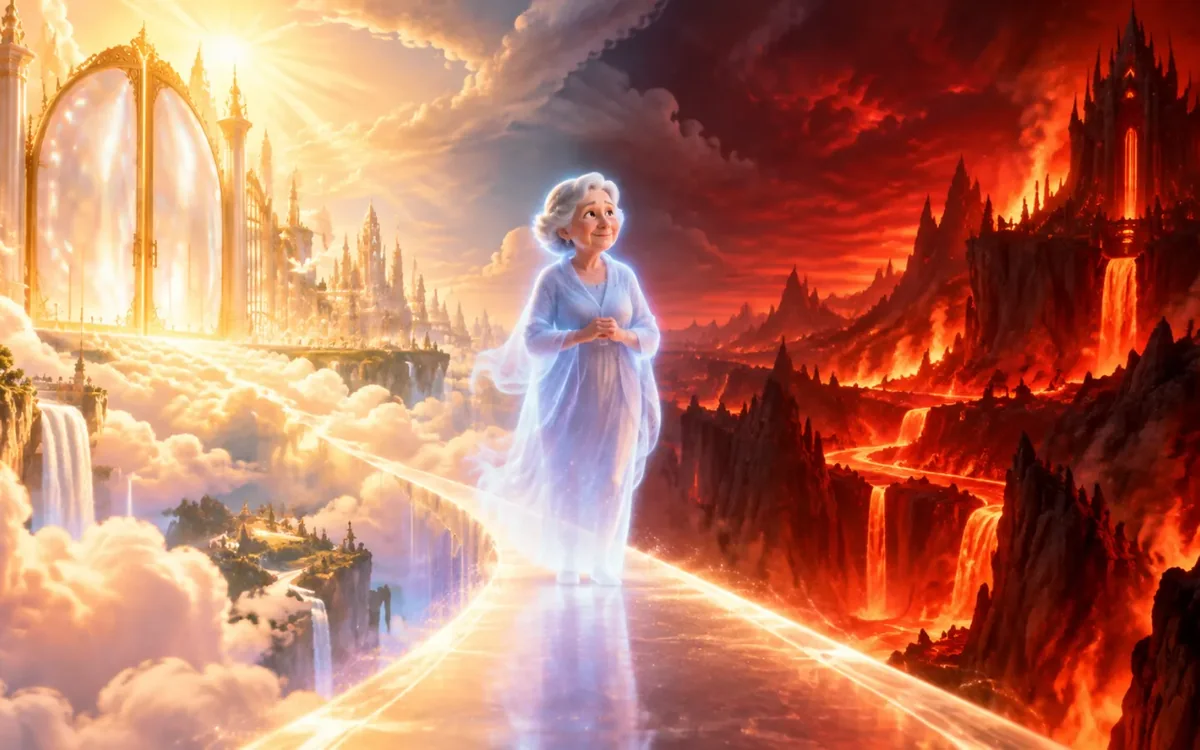
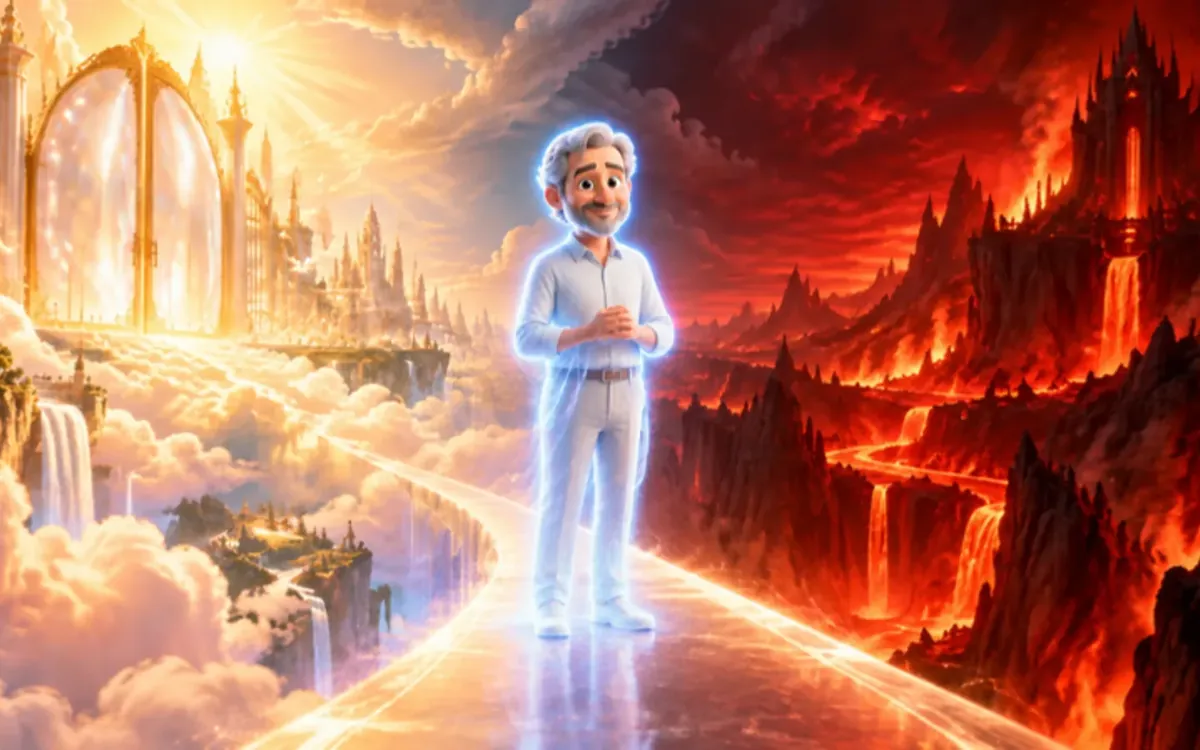
Portadas 3D ilustradas en el estilo de los muñequitos de gramática
Más allá ahora con un hombre como alma; Vuelo, Consorcio, Noche, Hospital,
Madrid, Casino, Reino y Feria dejan de ser capturas del juego.
render.mjs mundos genera public/<slug>/cover.webp desde scripts/covers/art.

Claude-Session: https://claude.ai/code/session_01JUjWx9xUr3z2xCLQdJXJhN

diff --git a/app/lesson-catalog.ts b/app/lesson-catalog.ts
@@ -148,7 +148,7 @@ const lessonSources:LessonSource[] = [
   {id:226,news:{addedAt:"2026-10-04",featured:true},level:"A1",levels:["A0","A1","A2","B1","B2","C1","C2"],displayLevel:"A0–C2",category:"Conversación",conversationMode:"play",collection:"Modo Play",title:"El bosque de los hongos gigantes",subtitle:"Salta, elige y habla: doce zonas de un bosque de plataformas con 432 preguntas para explorar tu mundo.",duration:"45–60 min",tag:"MODO PLAY · 3D · 12 ZONAS · A0–C2",special:true,path:"/bosque-de-los-hongos-gigantes",image:"/bosque-hongos/cover.webp",searchAliases:["bosque","hongos","hongo","setas","platformer","plataformas","saltar","videojuego","conversación","preguntas","opiniones","suposiciones","vida real","multiple choice","elecciones","hablar","modo play","a1","a2","b1","b2","c1","c2"],goals:["Expresar preferencias, experiencias y opiniones con el apoyo de tu nivel","Justificar elecciones y comparar perspectivas sin respuestas correctas","Revisar tus ideas cuando cambia una condición y conectar respuestas con tu vida"],warmup:"¿Qué lugar te gusta para conversar? Explica por qué.",explanation:"Un bosque de plataformas en tercera persona con doce zonas temáticas y seis bancos de 72 preguntas. Cada aterrizaje abre una conversación. Incluye vocabulario español-inglés de A1 a B2, repreguntas, mapa sin movimiento y una conversación final sobre la copa del bosque.",practice:[],speaking:["Elige y explica una preferencia personal","Compara dos posibilidades y revisa una condición","Conecta varias respuestas con tu propia vida"],homework:""},
   {id:225,level:"A1",levels:["A1","A2","B1","B2","C1","C2"],displayLevel:"A1–C2",category:"Fonética",title:"La entonación cambia todo",subtitle:"Las mismas palabras, otra intención: escucha, compara y elige cómo cae tu voz.",duration:"45–55 min",tag:"ENTONACIÓN · INTENCIÓN · VOZ · A1–C2",special:true,path:"/la-entonacion-cambia-todo",image:"/la-entonacion-cambia-todo/studio.webp",searchAliases:["fonética","pronunciación","entonación","intención","tono","cómo suena","pregunta","sorpresa","duda","cortesía","ironía","énfasis","emphasis","intonation","speaking","a1","a2","b1","b2","c1","c2"],goals:["Reconocer intenciones posibles a partir de la voz y el contexto","Comparar entregas del mismo texto","Cambiar el efecto interpersonal mediante énfasis y entonación"],warmup:"Di la misma frase con dos intenciones.",explanation:"Un estudio real de ensayo con seis recorridos completos: de preguntas y reacciones simples a ambigüedad, postura y efecto retórico. Audio antes del texto, comparación de tomas y producción en vivo con el profe.",practice:[],speaking:["Entrega una frase de dos maneras","Explica qué respuesta buscas provocar","Prueba otra entrega después de una devolución"],homework:"Trae una frase de tu vida para ensayarla con dos intenciones en la próxima clase."},
   {id:224,news:{addedAt:"2026-10-01",featured:true},level:"A1",levels:["A1","A2","B1","B2","C1","C2"],displayLevel:"A1–C2",category:"Fonética",title:"Hablar sin cortar",subtitle:"Las palabras no viajan solas: escucha conexiones, organiza ideas y lleva ese ritmo a tu propia voz.",duration:"45–55 min",tag:"CONEXIÓN · RITMO · HABLA REAL · A1–C2",special:true,path:"/hablar-sin-cortar",image:"/hablar-sin-cortar/studio.webp",searchAliases:["fonética","pronunciación","ritmo","hablar","fluidez","connected speech","linking","encadenamiento","unir palabras","natural speech","listening","a1","a2","b1","b2","c1","c2"],goals:["Reconocer palabras y grupos dentro del habla conectada","Controlar conexiones, pausas y foco sin perder inteligibilidad","Transferir lo escuchado a una intervención oral propia"],warmup:"Di una frase de tu vida. ¿Dónde haces pausas?",explanation:"Un estudio de voz con seis recorridos completos: del enlace de palabras conocidas a las decisiones de foco y agrupación. Escuchas, reconstrucción, conexiones, comparación de tomas y producción oral con devolución del profe.",practice:[],speaking:["Repite un grupo y cambia un dato","Explica dónde elegiste una pausa","Produce una intervención propia y reformúlala"],homework:"Elige una frase propia y ensaya dos agrupaciones para comentarlas en la próxima clase."},
-  {id:223,news:{addedAt:"2026-09-30",featured:true},level:"B1",levels:["A0","A1","A2","B1","B2","C1","C2"],displayLevel:"A0–C2",category:"Conversación",conversationMode:"play",collection:"Modo Play",title:"Noche abierta",subtitle:"Un videojuego en 3D: un sábado a la noche en un barrio, diez lugares y un juego de conversación distinto en cada uno. Elige tu nivel adentro, de A0 a C2.",duration:"≈ 45 min",tag:"MODO PLAY · 3D · A0–C2 · 10 LUGARES",special:true,path:"/noche-abierta",image:"/noche-abierta/preview.webp",searchAliases:["noche","noche abierta","sábado","salir","barrio","planes","imprevisto","amigos","ciudad","museo","bar","pasado","condicional","videojuego","juego","3d","a0","a1","a2","b1","b2","c1","c2"],goals:["Resolver situaciones de una salida de noche con la demanda de tu nivel","Decidir, negociar y convencer en lugares con mecánicas distintas","Contar la noche al final: de frases simples a matices e ironía"],warmup:"¿Prefieres planear la noche o improvisar? Cuenta un ejemplo.",explanation:"Un solo mundo en 3D con siete niveles: el barrio, los lugares y las mecánicas son los mismos, pero cada nivel cambia lo que hay que hacer con la lengua, de palabras con el inglés al lado en A0 a leer el subtexto en C2. Diez lugares, un imprevisto que cambia el plan y un relato final.",practice:[],speaking:["Cuenta qué pasó en el lugar que más recuerdas","Explica qué decisión cambiaste cuando la ciudad cambió","Si la noche empezara de nuevo, ¿qué cambiarías?"],homework:""},
+  {id:223,news:{addedAt:"2026-09-30",featured:true},level:"B1",levels:["A0","A1","A2","B1","B2","C1","C2"],displayLevel:"A0–C2",category:"Conversación",conversationMode:"play",collection:"Modo Play",title:"Noche abierta",subtitle:"Un videojuego en 3D: un sábado a la noche en un barrio, diez lugares y un juego de conversación distinto en cada uno. Elige tu nivel adentro, de A0 a C2.",duration:"≈ 45 min",tag:"MODO PLAY · 3D · A0–C2 · 10 LUGARES",special:true,path:"/noche-abierta",image:"/noche-abierta/cover.webp",searchAliases:["noche","noche abierta","sábado","salir","barrio","planes","imprevisto","amigos","ciudad","museo","bar","pasado","condicional","videojuego","juego","3d","a0","a1","a2","b1","b2","c1","c2"],goals:["Resolver situaciones de una salida de noche con la demanda de tu nivel","Decidir, negociar y convencer en lugares con mecánicas distintas","Contar la noche al final: de frases simples a matices e ironía"],warmup:"¿Prefieres planear la noche o improvisar? Cuenta un ejemplo.",explanation:"Un solo mundo en 3D con siete niveles: el barrio, los lugares y las mecánicas son los mismos, pero cada nivel cambia lo que hay que hacer con la lengua, de palabras con el inglés al lado en A0 a leer el subtexto en C2. Diez lugares, un imprevisto que cambia el plan y un relato final.",practice:[],speaking:["Cuenta qué pasó en el lugar que más recuerdas","Explica qué decisión cambiaste cuando la ciudad cambió","Si la noche empezara de nuevo, ¿qué cambiarías?"],homework:""},
   {id:220,curriculumOrder:2352,requires:[219],level:"B2",category:"Gramática",title:"Aunque cambie el dato…",subtitle:"Indicativo o subjuntivo con aunque según la postura: información afirmada, presupuesta o hipotética",duration:"≈ 45 min",tag:"PCIC 15.3.9 · concesivas B2",special:true,path:"/aunque-cambie-el-dato",image:"/catalog-thumbnails/connection-panel.webp",goals:["Presentar información nueva con aunque + indicativo","Tratar información conocida o presupuesta con subjuntivo","Conceder una objeción y sostener o revisar una posición"],warmup:"Escucha una objeción y decide si el hablante la introduce, la presupone o solo la imagina.",explanation:"Un selector de evidencia conserva la misma proposición y cambia su estatus discursivo para hacer visible por qué cambia el modo antes del debate final.",practice:[],speaking:[],homework:""},
   {id:219,curriculumOrder:2351,requires:[218,150],level:"B2",category:"Gramática",title:"Si fuera distinto…",subtitle:"Condiciones hipotéticas presentes o futuras con imperfecto de subjuntivo y condicional simple",duration:"≈ 45 min",tag:"PCIC 15.3.6 · condicionales B2",special:true,path:"/si-fuera-distinto",image:"/catalog-thumbnails/conditionals-path.webp",goals:["Contrastar condiciones reales e hipotéticas","Correlacionar imperfecto de subjuntivo y condicional simple","Negociar consecuencias y variar el orden de las cláusulas"],warmup:"Compara qué cambia entre una condición posible y una versión improbable de la misma situación.",explanation:"Un interruptor de hipótesis transforma escenarios reales en versiones improbables y obliga a reconstruir condición y consecuencia antes de negociar un plan.",practice:[],speaking:[],homework:""},
   {id:216,level:"B1",category:"Conversación",conversationMode:"play",collection:"Modo Play",title:"Entrenador personal",subtitle:"Conviértete en entrenador y dirige una sesión completa con decenas de imperativos afirmativos y negativos",duration:"≈ 45 min",tag:"MODO PLAY · IMPERATIVO · 8 ESTACIONES · DESAFÍO FINAL",special:true,path:"/entrenador-personal",image:"/entrenador-personal/hero.webp",searchAliases:["entrenador","gimnasio","imperativo","órdenes","ejercicio","rutina","salud"],goals:["Dar órdenes directas con imperativos afirmativos y negativos","Reaccionar rápidamente ante errores y situaciones de entrenamiento","Dirigir una sesión completa sin recurrir a perífrasis de consejo"],warmup:"Soy tu cliente y acabo de llegar al gimnasio. Prepárame para entrenar usando solamente órdenes.",explanation:"Una experiencia por estaciones dentro de un gimnasio moderno. El alumno es el entrenador, el profesor es el cliente y cada pantalla provoca nuevas órdenes orales con contadores manuales.",practice:[],speaking:["Prepárame para entrenar desde que entro al gimnasio","Corrige mis errores usando solamente órdenes","Organízame cuatro días de entrenamiento y tres de recuperación"],homework:""},

diff --git a/app/academias/page.tsx b/app/academias/page.tsx
@@ -38,7 +38,7 @@ export default async function Academias() {
   const lessonCount = catalogLessons.filter(lesson => !lesson.path?.startsWith('http')).length;
   const grammarCount = lessons.filter(lesson => lesson.category === 'Gramática').length;
   const worlds = [
-    { href: '/demo/noche-abierta', image: '/noche-abierta/preview.webp', title: 'Noche abierta', free: true, body: es ? 'Una ciudad de noche para conversar y escuchar. El centro es gratis.' : 'A city at night for speaking and listening. The centre is free.' },
+    { href: '/demo/noche-abierta', image: '/noche-abierta/cover.webp', title: 'Noche abierta', free: true, body: es ? 'Una ciudad de noche para conversar y escuchar. El centro es gratis.' : 'A city at night for speaking and listening. The centre is free.' },
     { href: '/demo/hospital-san-casi-vivo', image: '/hospital-san-casi-vivo/cover.webp', title: 'Hospital San Casi Vivo', free: true, body: es ? 'Un hospital con humor negro, de principiante a C2. La recepción es gratis.' : 'A darkly funny hospital, from beginner to C2. The reception is free.' },
     { href: '/el-reino-de-la-rosa-dormida', image: '/reino/cover.webp', title: 'El reino de la rosa dormida', free: false, body: es ? 'Una aventura de fantasía con misiones y hechizos para conversar.' : 'A fantasy adventure with quests and spells to talk about.' },
     { href: '/madrid-infectada', image: '/madrid-infectada/cover.webp', title: 'Madrid infectada', free: false, body: es ? 'Una ciudad tomada por zombis: decide, negocia y sobrevive en español.' : 'A city overrun by zombies: decide, negotiate and survive in Spanish.' },
@@ -114,7 +114,7 @@ export default async function Academias() {
       <section className="academy-product-section" aria-labelledby="academy-library-title"><div className="academy-wrap academy-section">
         <div className="academy-section-heading"><p className="academy-eyebrow">{es ? 'ABRE. EXPLORA. ENSEÑA.' : 'OPEN. EXPLORE. TEACH.'}</p><h2 id="academy-library-title">{es ? 'El material ya está aquí.' : 'The materials are already here.'}</h2><p>{es ? 'Explora recursos del producto actual antes de solicitar tu demo institucional.' : 'Explore resources from the current product before requesting your school demo.'}</p></div>
         <div className="academy-resource-grid">
-          <Link href="/demo/noche-abierta" className="academy-resource"><img src="/noche-abierta/preview.webp" alt={es ? 'Vista del mundo Noche abierta' : 'View of the Noche abierta world'} width="720" height="450" loading="lazy" /><div><small>{es ? 'MUNDO 3D · DEMO GRATUITA' : '3D WORLD · FREE DEMO'}</small><h3>Noche abierta <span>↗</span></h3><p>{es ? 'Una ciudad para conversar y escuchar español.' : 'A city for speaking and listening in Spanish.'}</p></div></Link>
+          <Link href="/demo/noche-abierta" className="academy-resource"><img src="/noche-abierta/cover.webp" alt={es ? 'Vista del mundo Noche abierta' : 'View of the Noche abierta world'} width="720" height="450" loading="lazy" /><div><small>{es ? 'MUNDO 3D · DEMO GRATUITA' : '3D WORLD · FREE DEMO'}</small><h3>Noche abierta <span>↗</span></h3><p>{es ? 'Una ciudad para conversar y escuchar español.' : 'A city for speaking and listening in Spanish.'}</p></div></Link>
           <Link href="/la-fabrica-de-los-nombres" className="academy-resource"><img src="/lp/fabrica.webp" alt={es ? 'Portada de La Fábrica de los Nombres' : 'La Fábrica de los Nombres lesson cover'} width="720" height="450" loading="lazy" /><div><small>{es ? 'GRAMÁTICA · CLASE GRATUITA' : 'GRAMMAR · FREE LESSON'}</small><h3>{es ? 'Gramática en acción' : 'Grammar in action'} <span>↗</span></h3><p>{es ? 'Explicaciones y práctica en una clase visual.' : 'Explanations and practice in a visual lesson.'}</p></div></Link>
         </div>
         <Link className="academy-text-link" href="/#library-results">{es ? 'Explorar toda la biblioteca' : 'Explore the full library'} →</Link>
